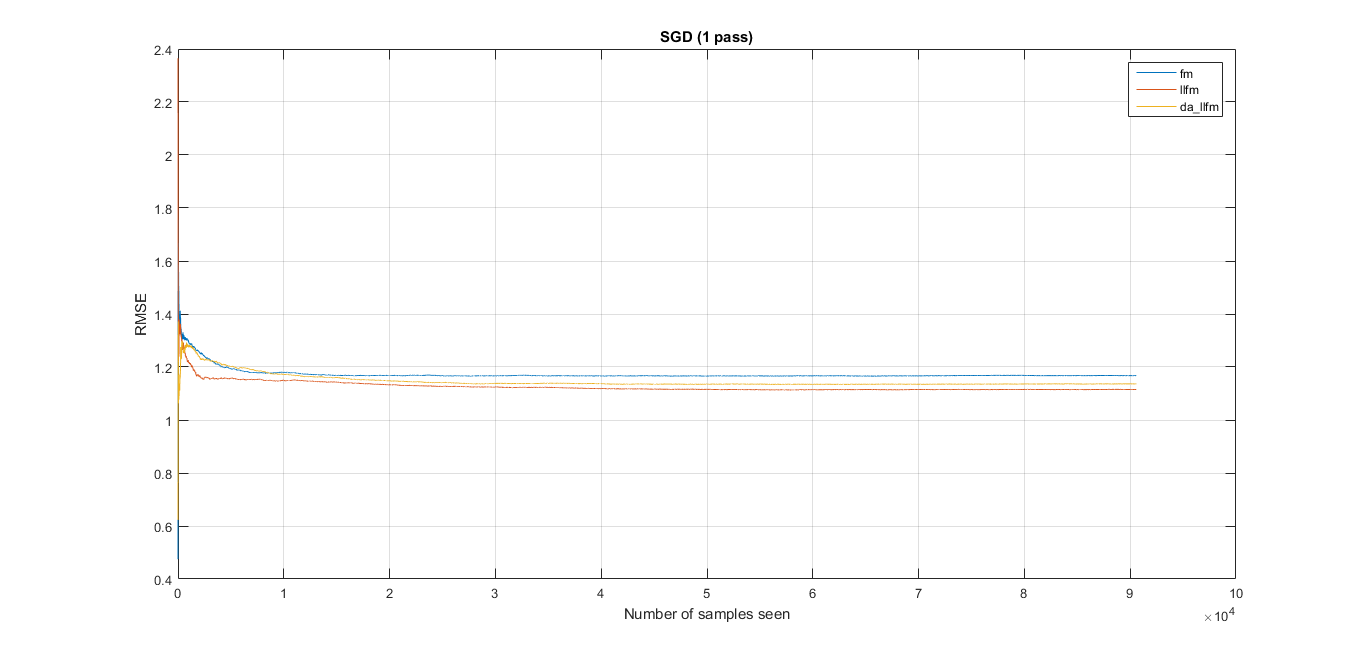
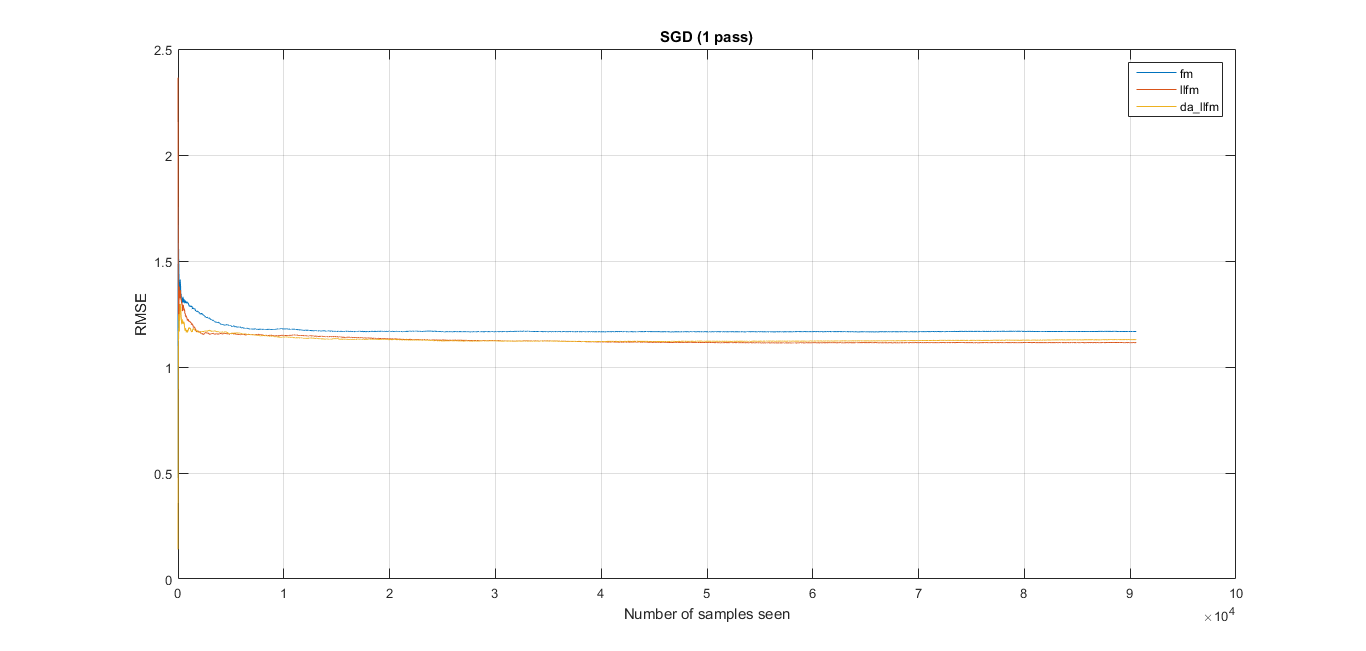
using smaller learning rate for anchor points

Changed region(s): [[0.123, 0.4301, 0.8609, 0.6144], [0.123, 0.7988, 0.1537, 0.8295]]

diff --git a/matlab/DA_LLFM_SGD.m b/matlab/DA_LLFM_SGD.m
@@ -8,6 +8,7 @@ y_min = min(train_Y);
 % parameters
 iter_num = 1;
 learning_rate = 0.01;
+learning_rate_anchor = 0.0001;
 factors_num = 10;
 reg_w = 0.1;
 reg_v = 0.01;
@@ -88,19 +89,22 @@ for i=1:iter_num
         tmp_W = W(:,anchor_idx);
         W(:,anchor_idx) = tmp_W - learning_rate * repmat(gamma,p,1) .* (2*err*repmat(X',[1,nearest_neighbor]) + 2*reg_w*tmp_W);
         
+        
+        s = 2 * (repmat(X, nearest_neighbor, 1) - anchors(anchor_idx, :)).*repmat(weight, p, 1)';
+        base = -s .* repmat(weight, p, 1)';
         for k=1:nearest_neighbor
             temp_V = squeeze(V(:,:,anchor_idx(k)));
             V(:,:,anchor_idx(k)) = temp_V - learning_rate * gamma(k) * ...
                 (2*err*(repmat(X',1,factors_num).*(repmat(X*temp_V,p,1)-repmat(X',1,factors_num).*temp_V)) + 2*reg_v*squeeze(temp_V));
+            
+            
+            % update anchor points
             tmp = anchors(anchor_idx(k), :);
-            
-            
-            s = 2 * (repmat(X, nearest_neighbor, 1) - anchors(anchor_idx, :)).*repmat(weight, p, 1)';
-            delt = -s .* repmat(weight, p, 1)';
+            delt = base;
             delt(k, :) = delt(k,:) + s(k,:) * sum(weight);
             delt = delt / (sum(weight).^2);
             
-            anchors(anchor_idx(k), :) = tmp - learning_rate * 2 * err * y_anchor*delt;
+            anchors(anchor_idx(k), :) = tmp - learning_rate_anchor * 2 * err * y_anchor*delt;
         end
         
         % update anchor points
@@ -155,7 +159,7 @@ mse_dallfm_test = mse_dallfm_test / num_sample_test;
 
 %%
 % plot
-plot(mse_da_llfm_sgd);
+plot(mse_da_llfm_sgd.^0.5);
 xlabel('Number of samples seen');
 ylabel('MSE');
 grid on;

diff --git a/LLFM.md b/LLFM.md
@@ -21,6 +21,7 @@ $$
 
 
 
+
 * W, V：
   * parameters of FM
 
@@ -37,6 +38,7 @@ $$
   * $$
     \frac{\partial\hat{y}(x)}{\partial\theta}=\begin{cases} \gamma(x)_j  & if \ \theta \ is \ W_{j0} \\ \gamma(x)_jx_l &  if \ \theta \ is \ W_{jl} \\ \gamma(x)_jx_l \sum_{j \neq l}v_{j,f}x_j & if \ \theta \ is V_{j,l,f}\end{cases}
     $$
+
 
 
 
@@ -84,4 +86,5 @@ Test RMSE
 | --------- | --------- |
 | FM        | 1.2516    |
 | LLFM      | 1.1396    |
-| DALLFM    | 1.1577    |
+| DALLFM    | 1.1745    |
+
